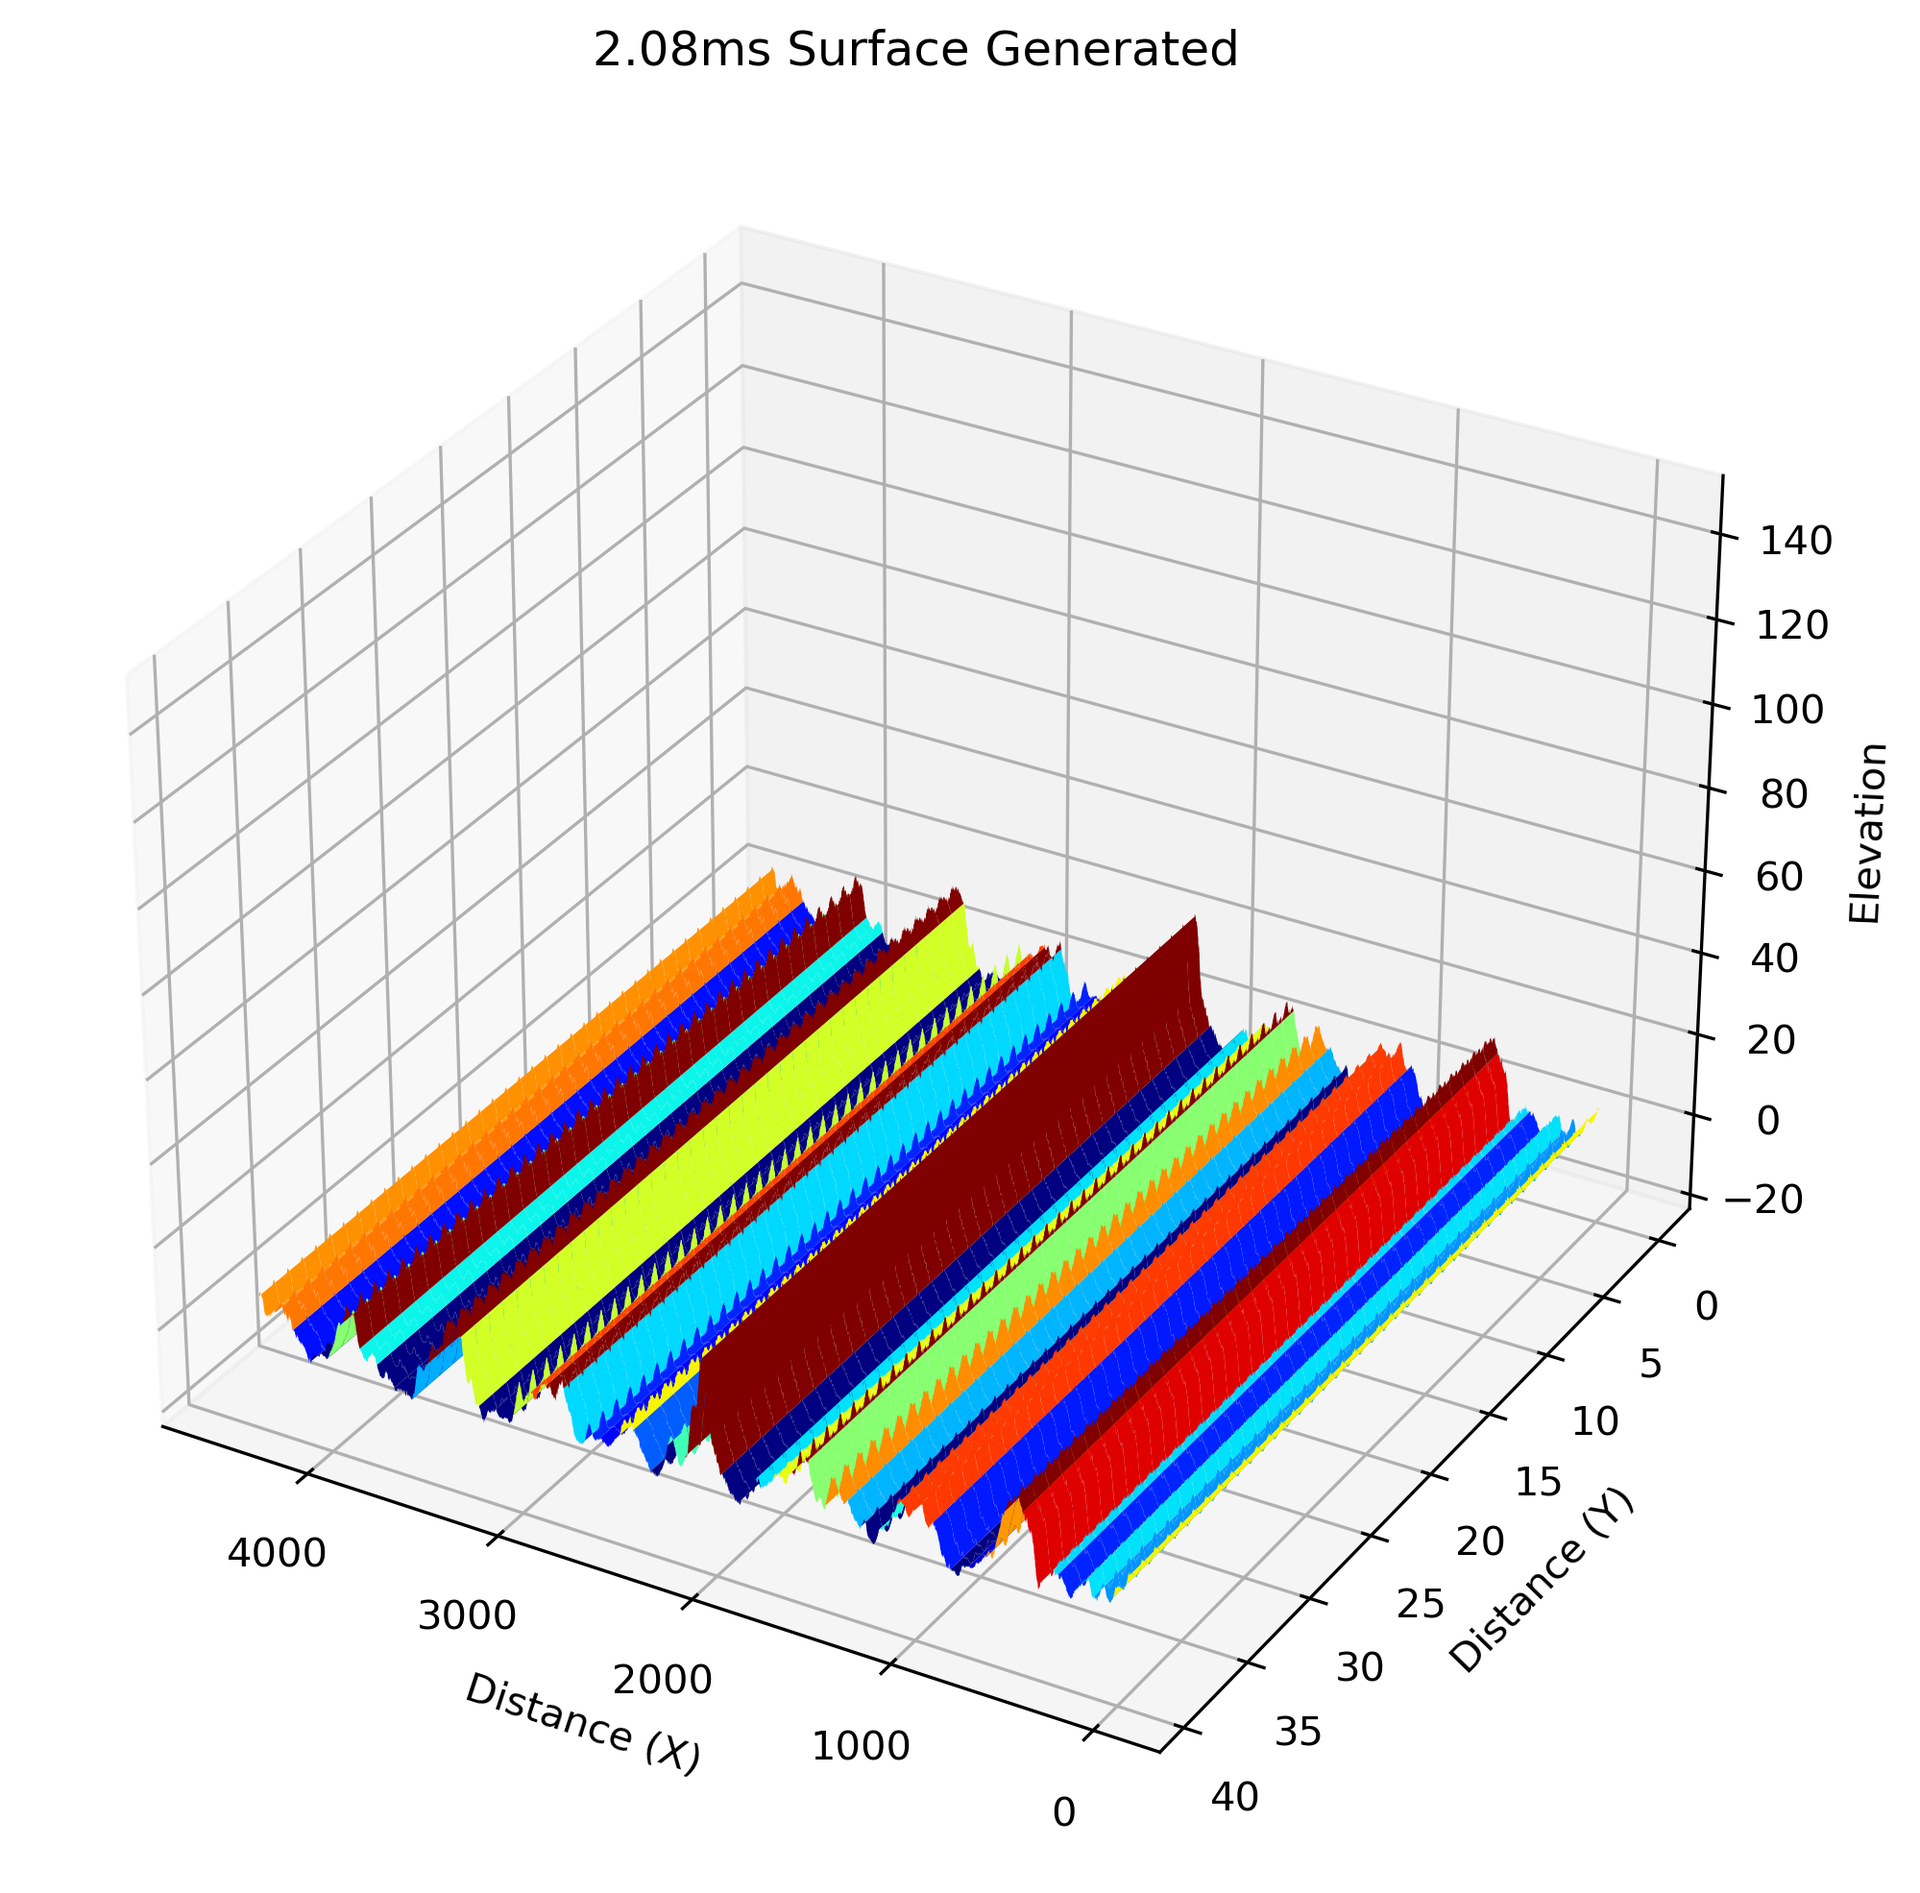
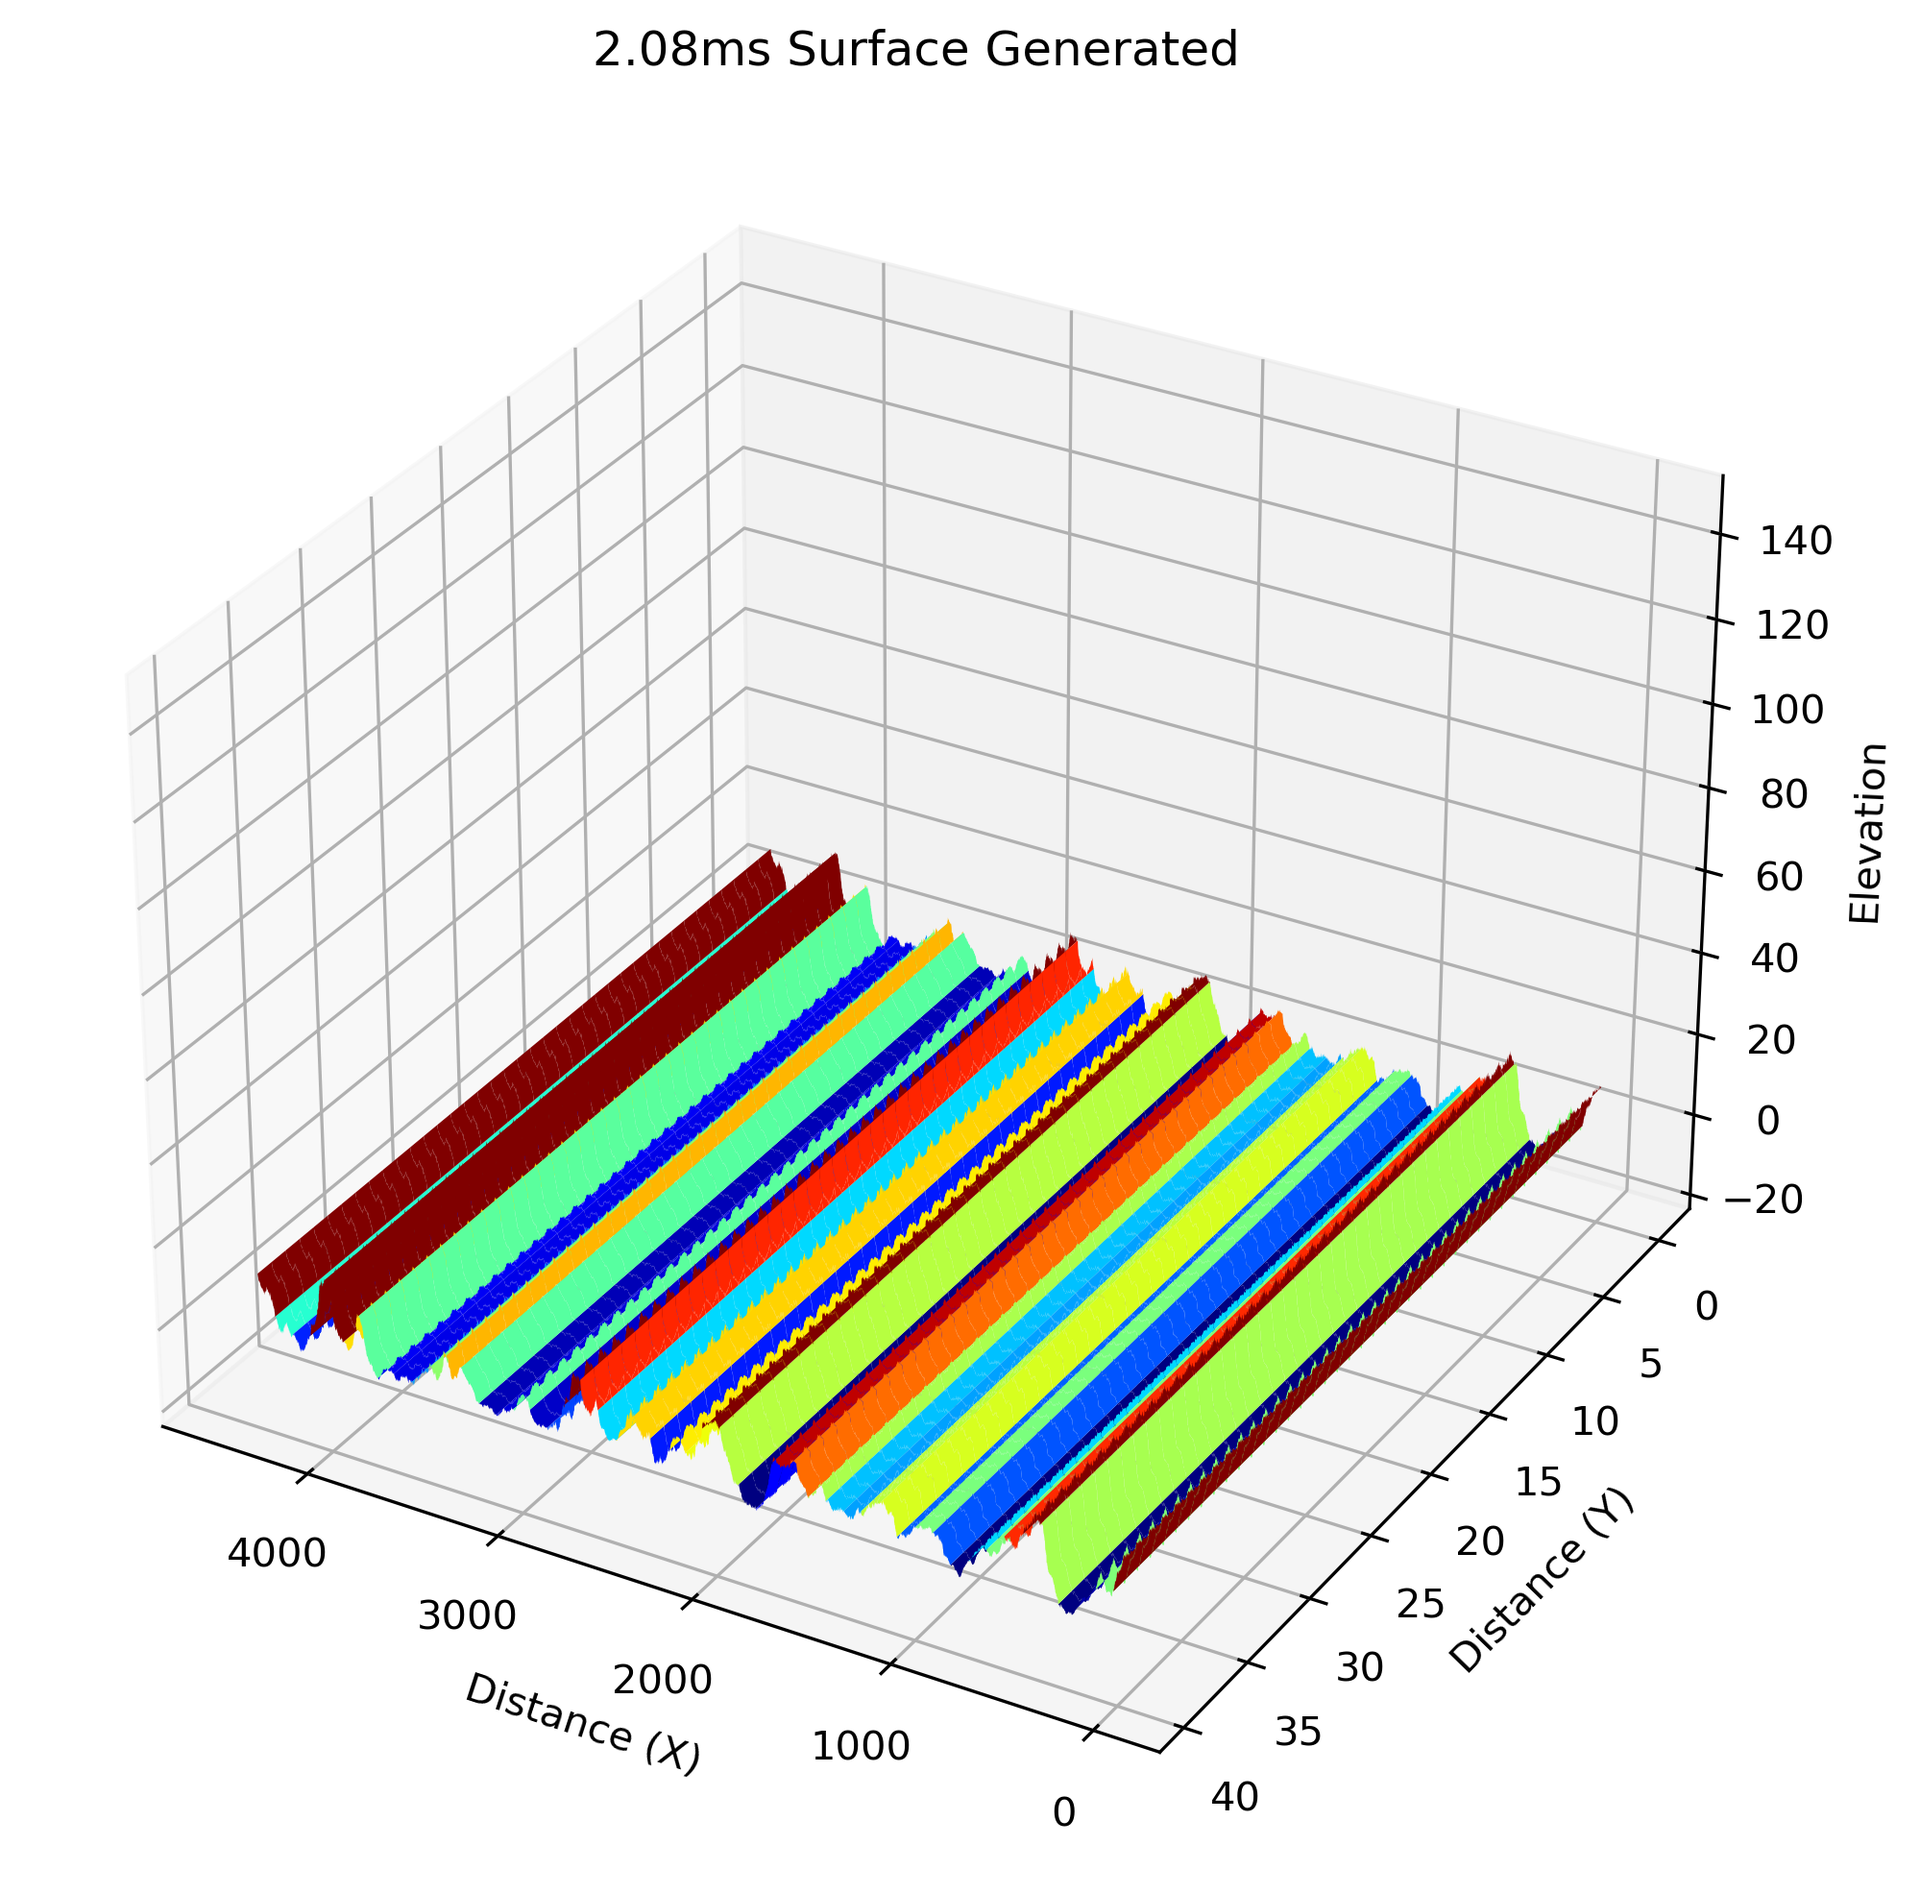
- Final Generated Images

Changed region(s): [[0.1241, 0.4333, 0.8374, 0.8666]]

diff --git a/washboardOptimization/main_PSO.py b/washboardOptimization/main_PSO.py
@@ -7,7 +7,7 @@ import os, datetime
 ### CONSTANTS  ###
 # EXPERIMENTAL DATA
 CONDITIONS_FOLDER = "1200g_VelocidadVariable_1740kg-m3"
-TEST_FOLDER = "1.03ms"
+TEST_FOLDERS = ["1.03ms", "1.29ms", "1.55ms", "2.08ms", "2.61ms"]
 BASE_SURFACE_FILE = "Vuelta5.txt"
 EXPERIMENTAL_COMPARISON_FILE = "Vuelta80.txt"
 SKIPROWS_FILES = 1
@@ -94,29 +94,37 @@ def objective_function(params):
 def main():
     program_start_time = initialize_program()
 
-    # Load experimental data
-    experimental_file_path = os.path.join("ExperimentalData", CONDITIONS_FOLDER, TEST_FOLDER, EXPERIMENTAL_COMPARISON_FILE)
-    base_surface_file_path = os.path.join("ExperimentalData", CONDITIONS_FOLDER, TEST_FOLDER, BASE_SURFACE_FILE)
-    data_exp = load_experimental_data(experimental_file_path)
+    results = []
 
-    perform_fft(data_exp)
+    for TEST_FOLDER in TEST_FOLDERS:
+        print(f"Running optimization for {TEST_FOLDER}")
+        
+        # Load experimental data
+        experimental_file_path = os.path.join("ExperimentalData", CONDITIONS_FOLDER, TEST_FOLDER, EXPERIMENTAL_COMPARISON_FILE)
+        base_surface_file_path = os.path.join("ExperimentalData", CONDITIONS_FOLDER, TEST_FOLDER, BASE_SURFACE_FILE)
+        data_exp = load_experimental_data(experimental_file_path)
 
-    # Create initial surface
-    base_surface_exp_data = load_experimental_data(base_surface_file_path)
-    global initial_surface
-    initial_surface = create_initial_surface(base_surface_exp_data)
+        perform_fft(data_exp)
 
-    # Initialize PSO
-    global control, total_comparisons
-    control = 0
-    total_comparisons = OPTIMIZATION_STEPS * N_PARTICLES
-    optimizer = GlobalBestPSO(n_particles=N_PARTICLES, dimensions=2, options=PSO_OPTIONS, bounds=PSO_BOUNDS)
+        # Create initial surface
+        base_surface_exp_data = load_experimental_data(base_surface_file_path)
+        global initial_surface
+        initial_surface = create_initial_surface(base_surface_exp_data)
 
-    # Optimize
-    _, pos = optimizer.optimize(objective_function, OPTIMIZATION_STEPS)
+        # Initialize PSO
+        global control, total_comparisons
+        control = 0
+        total_comparisons = OPTIMIZATION_STEPS * N_PARTICLES
+        optimizer = GlobalBestPSO(n_particles=N_PARTICLES, dimensions=2, options=PSO_OPTIONS, bounds=PSO_BOUNDS)
 
-    # Display the result
-    print("Best Position:", pos)
+        # Optimize
+        _, pos = optimizer.optimize(objective_function, OPTIMIZATION_STEPS)
+
+        # Store the result
+        results.append((TEST_FOLDER, pos))
+
+        # Display the result
+        print(f"Best Position for {TEST_FOLDER}: {pos}")
 
     program_end_time = datetime.datetime.now()
     total_duration = (program_end_time - program_start_time).total_seconds() / 60

diff --git a/expWashboardPlotting/resultsVariableVelocity.py b/expWashboardPlotting/resultsVariableVelocity.py
@@ -4,26 +4,49 @@ import os
 # Simplified dictionary to store optimization results
 optimization_results = {
     0.78: {
-        "best_cost": 17.604112413590595,
-        "L0": -322.7222912,
-        "b": 55.8061736
+        "velocity": "0.78ms",
+        "D": 1.2,
+        "Q": 0.2,
+        "L0": -40.39188802,
+        "b": 45.82976483
+    },
+    1.03: {
+        "velocity": "1.03ms",
+        "D": 1.2,
+        "Q": 0.2,
+        "L0": -2299.30289414,
+        "b": 45.85475005
     },
     1.29: {
-        "best_cost": 472.5288941019848,
-        "L0": 4588.61355303,
-        "b": 55.65060651
+        "velocity": "1.29ms",
+        "D": 1.2,
+        "Q": 0.2,
+        "L0": 4647.05717735,
+        "b": 68.69560751
+    },
+    1.55: {
+        "velocity": "1.55ms",
+        "D": 1.2,
+        "Q": 0.2,
+        "L0": 5844.33512412,
+        "b": 51.92830198
     },
     2.08: {
-        "best_cost": 372.639275065379,
-        "L0": 4837.67381703,
-        "b": 48.26318216
+        "velocity": "2.08ms",
+        "D": 1.2,
+        "Q": 0.2,
+        "L0": 5911.81381374,
+        "b": 60.81679517
     },
     2.61: {
-        "best_cost": 339.71329700953237,
-        "L0": 4986.31878445,
-        "b": 50.22157854
+        "velocity": "2.61ms",
+        "D": 1.2,
+        "Q": 0.2,
+        "L0": 5699.00532478,
+        "b": 58.49857392
     }
 }
+
 
 # Extract velocities, L0, and b from the dictionary
 velocities = list(optimization_results.keys())

diff --git a/washboad_fft_comparison/main_fft_comparison.py b/washboad_fft_comparison/main_fft_comparison.py
@@ -7,16 +7,18 @@ from scipy.interpolate import interp1d
 
 # TEST CASES
 TEST_CASES = [
-    {'velocity': '0.78ms', 'D': 1.2, 'Q': 0.2, 'L0': -40.39188802, 'b': 45.82976483}, # Frecuencia: 0.005 - 0.01 rango
-    # {'velocity': '1.29ms', 'D': 1.2, 'Q': 0.2, 'L0': 4588.61355303, 'b': 55.65060651}, # Frecuencia 0.0042 0 - 0.005
-    # {'velocity': '2.08ms', 'D': 1.2, 'Q': 0.2, 'L0': 4837.67381703, 'b': 48.26318216}, # Frecuencia 0.00188
-    # {'velocity': '2.61ms', 'D': 1.2, 'Q': 0.2, 'L0': 4986.31878445, 'b': 50.22157854}, # Frecuencia 0.00166
+    {'velocity': '0.78ms', 'D': 1.2, 'Q': 0.2, 'L0': -40.39188802 , 'b': 45.82976483}, 
+    {'velocity': '1.03ms', 'D': 1.2, 'Q': 0.2, 'L0': -2299.30289414, 'b': 45.85475005}, 
+    {'velocity': '1.29ms', 'D': 1.2, 'Q': 0.2, 'L0': 4647.05717735, 'b': 68.69560751}, 
+    {'velocity': '1.55ms', 'D': 1.2, 'Q': 0.2, 'L0': 5844.33512412, 'b': 51.92830198},
+    {'velocity': '2.08ms', 'D': 1.2, 'Q': 0.2, 'L0': 5911.81381374 , 'b': 60.81679517},
+    {'velocity': '2.61ms', 'D': 1.2, 'Q': 0.2, 'L0': 5699.00532478, 'b': 58.49857392}
 ]
 
 # EXPERIMENTAL DATA FILES MANAGEMENT
 CONDITIONS_FOLDER = "1200g_VelocidadVariable_1740kg-m3"
 BASE_SURFACE_FILE = "Vuelta5.txt"
-EXPERIMENTAL_COMPARISON_FILE = "Vuelta80_filtered.txt"
+EXPERIMENTAL_COMPARISON_FILE = "Vuelta80.txt"
 SKIPROWS_FILES = 1
 
 # CELLBEDFORM NUMERICAL SIMULATION PARAMETERS

diff --git a/washboad_fft_comparison/fft_comparison_cellbedform.py b/washboad_fft_comparison/fft_comparison_cellbedform.py
@@ -218,7 +218,7 @@ class CellBedform():
         fft_result_positive = np.abs(fft_result[positive_freqs])
         fft_exp = np.abs(fft_result)
         peak_index = np.argmax(fft_result_positive)
-        margin = int(0.01 * len(fft_result_positive))  # Identify 10% of the total amount of data next to the highest peak to ponderate
+        margin = int(0.005 * len(fft_result_positive))  # Identify 10% of the total amount of data next to the highest peak to ponderate
         start_index = max(0, peak_index - margin)
         end_index = min(len(fft_result_positive), peak_index + margin)
 
